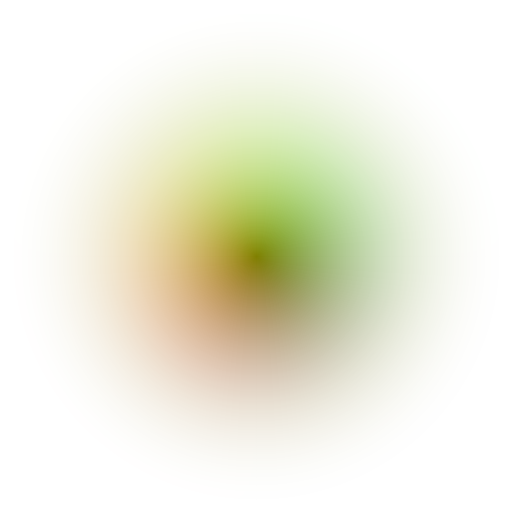
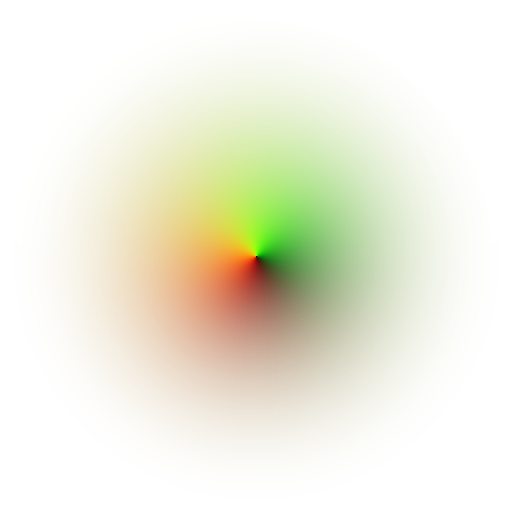
map.pngを変更・半径の設定項目を追加

Changed region(s): [[0.375, 0.375, 0.6562, 0.6562]]

diff --git a/src/MapDistort.cpp b/src/MapDistort.cpp
@@ -11,6 +11,7 @@
 void mapDistort::setup(ofFbo *buf){
 	buffer = buf;
 	force = 255;
+	radius = 1.0;
 
 	buffer_size.set(buf->getWidth(), buf->getHeight());
 	ShadingBuffer.allocate(buffer_size.x, buffer_size.y);
@@ -28,7 +29,7 @@ void mapDistort::setup(ofFbo *buf){
 		for (int j = -256;j < 256;j++){
 			ofPoint dst = ofPoint(-i,-j);
 
-			dst *= MIN(1.0,128.0 / ofPoint(-i,-j).length());
+			dst *= 128.0 / ofPoint(-i,-j).length();
 
 			ofSetColor(dst.x+128, dst.y+128, 0,
 					   255.0 - ofPoint(-i,-j).length());
@@ -49,9 +50,8 @@ void mapDistort::setup(ofFbo *buf){
 //	ofPixels pix;
 //	pix.allocate(512, 512, 4);
 //	Distcircle.readToPixels(pix);
-//	ofImage img;
-//	img.setFromPixels(pix);
-//	img.saveImage("map.png");
+//	ofSaveImage(pix, "map.png");
+
 }
 
 void mapDistort::update(){
@@ -60,9 +60,10 @@ void mapDistort::update(){
 	ofClear(127, 127, 0,255);
 
 	glBlendFuncSeparate(GL_SRC_ALPHA,GL_ONE_MINUS_SRC_ALPHA,GL_SRC_ALPHA,GL_ONE);
+//	ofEnableBlendMode(OF_BLENDMODE_ADD);
 
 	ofSetColor(255,force);
-	int scl = 512;
+	int scl = 512*radius;
 	for (int i = 0;i < pts.size();i++){
 		Distcircle.draw(pts[i].x-scl/2,pts[i].y-scl/2,scl,scl);
 	}
@@ -112,4 +113,8 @@ void mapDistort::drawMap(int x,int y,int w,int h){
 
 void mapDistort::setForce(int frc){
 	force = frc;
+}
+
+void mapDistort::setRadius(float rad){
+	radius = rad;
 }

diff --git a/src/ofxGravDistortion.h b/src/ofxGravDistortion.h
@@ -22,8 +22,11 @@ public:
 	/*更新処理。Fboの描画処理を終えた後に呼び出してください*/
 	void update();
 
-	/*歪みのかかり具合を調整します。0-255の範囲で設定できます。*/
+	/*歪みのかかり具合を調整します。0-255の範囲で設定できます*/
 	void setForce(int frc);
+
+	/*歪みの半径を設定します1.0fがデフォルトのサイズ*/
+	void setRadius(float radius);
 
 private:
 	ofFbo* buffer;

diff --git a/src/MapDistort.h b/src/MapDistort.h
@@ -22,6 +22,7 @@ public:
 
 	void drawMap(int x,int y,int w,int h);
 	void setForce(int frc);
+	void setRadius(float rad);
 private:
 
 	ofFbo*		buffer;
@@ -37,6 +38,7 @@ private:
 	vector<ofPoint> pts;
 
 	int force;
+	float radius;
 
 };
 

diff --git a/src/ofxGravDistortion.cpp b/src/ofxGravDistortion.cpp
@@ -31,3 +31,7 @@ void ofxGravDistortion::update(){
 void ofxGravDistortion::setForce(int frc){
 	mDis.setForce(frc);
 }
+
+void ofxGravDistortion::setRadius(float radius){
+	mDis.setRadius(radius);
+}
